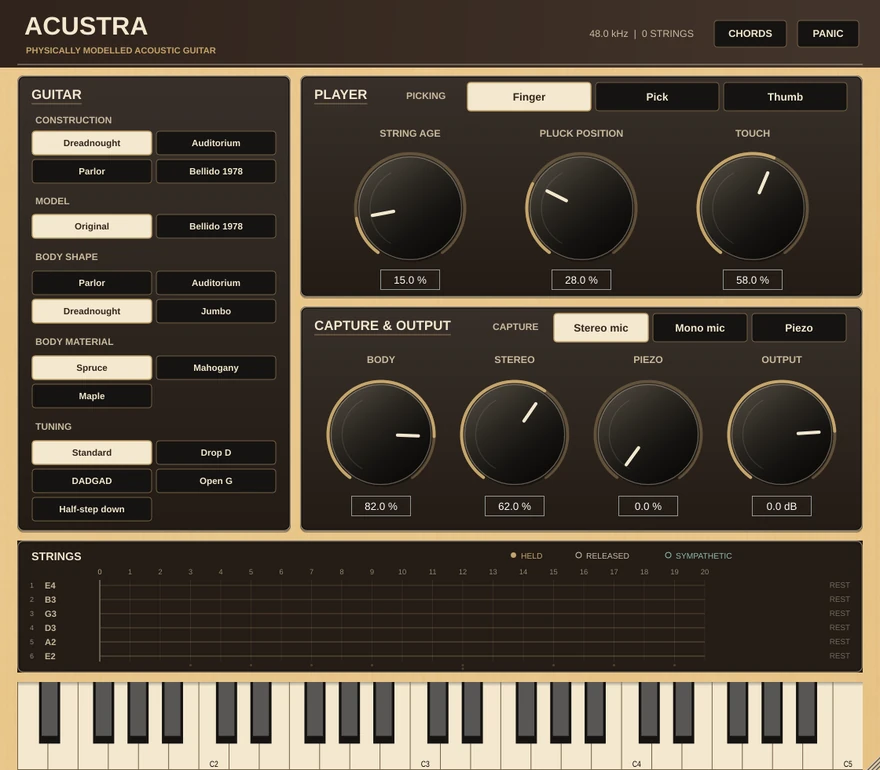
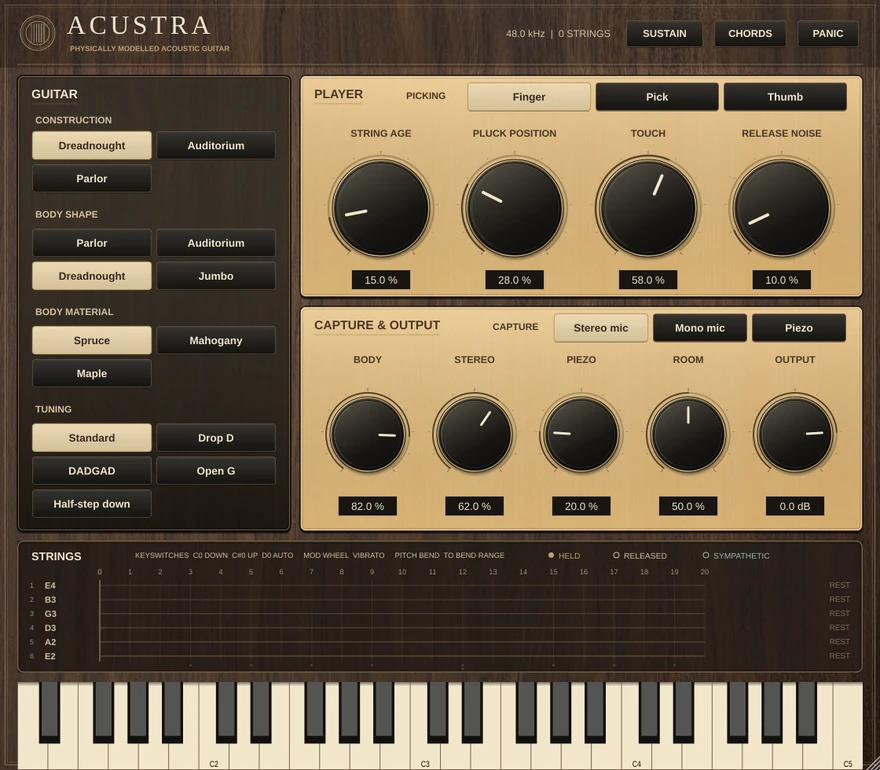
acustra: match the pages to the 1.3.2 source and its unreleased status
The Acustra page still sold the removed Bellido 1978 body and Model row,
natural harmonics above the twentieth fret, host-only Room and Release
Noise at 70 %, and a 1.0.0 Linux build as current. The source is 1.3.2
(8ea776e) and nothing has been released, so the page now says so.

- Re-encode the panel (1120x980) and card (880x770) WebPs from the
  committed editor capture at 8ea776e with Pillow, quality 90, method 6;
  cache keys move to 20261012 on the page, og:image and homepage card.
- Features: one body with three construction presets, strum direction
  timed by the host tempo, the C0/C#0/D0 keyswitches, the playable range
  as MIDI notes (the README's C0 and E2 use different octave names), the
  Sustain switch, Release Noise 10 %, Piezo Mix 20 % and Room 50 % on the
  panel. Body Material no longer claims to change damping.
- Add a MIDI implementation table and requirements from the source:
  macOS 11 universal (CMakeLists.txt), Windows 10 (pinned JUCE 8.0.14
  floor), formats per OS, rates to 384 kHz, 7-sample latency plus 30 ms
  with Gather Chords, the optional piezo output. All are stated as
  planned; the Linux minimum waits for the first release build.
- Add a Reason edition section: four tunings and two woods on its panel,
  no MPE, Gather Chords or CC65/CC84, CV inputs, Bend Range and
  oversampling at 49 samples; 1.2.8f1 is the last SDK-built candidate and
  1.2.9f1-1.2.11f1 are source only.
[…]

diff --git a/product/acustra/index.html b/product/acustra/index.html
@@ -11,7 +11,7 @@
   <meta property="og:description" content="Physical steel strings, responsive picking and a measurement-derived guitar body. Play fingerstyle, picked lines or voiced strums through microphones, a modelled piezo circuit and a small studio room.">
   <meta property="og:type" content="website">
   <meta property="og:url" content="https://protocodus.cz/product/acustra/">
-  <meta property="og:image" content="https://protocodus.cz/product/acustra/acustra-panel.webp?v=20261006">
+  <meta property="og:image" content="https://protocodus.cz/product/acustra/acustra-panel.webp?v=20261012">
   <link rel="canonical" href="https://protocodus.cz/product/acustra/">
   <link rel="icon" type="image/svg+xml" href="/assets/images/favicon.svg?v=20260911">
   <link rel="preload" href="/assets/fonts/space-grotesk-latin.woff2" as="font" type="font/woff2" crossorigin>
@@ -76,12 +76,12 @@
               <a href="mailto:protocodus@proton.me?subject=Acustra" class="btn btn-primary">Ask about Acustra <span aria-hidden="true">↗</span></a>
               <a href="#details" class="detail-link">Explore the features <span aria-hidden="true">↓</span></a>
             </div>
-            <p class="availability-note">In development. VST3 and standalone for macOS, Windows and Linux, with Audio Unit on macOS.</p>
+            <p class="availability-note">In development; no build is available yet. Planned for release as VST®3 and standalone for macOS, Windows and Linux, with Audio Unit on macOS.</p>
           </div>
         </div>
         <figure class="shot hero-shot">
-          <a class="screenshot-link" href="acustra-panel.webp?v=20261006" aria-label="View the Acustra interface screenshot at full size">
-            <img src="acustra-panel.webp?v=20261006" width="1120" height="980" fetchpriority="high" decoding="async" alt="Current Acustra editor with guitar construction and tuning switches, Finger/Pick/Thumb playing styles, microphone and piezo capture, Gather Chords, a six-string fretboard and a piano keyboard">
+          <a class="screenshot-link" href="acustra-panel.webp?v=20261012" aria-label="View the Acustra interface screenshot at full size">
+            <img src="acustra-panel.webp?v=20261012" width="1120" height="980" fetchpriority="high" decoding="async" alt="Acustra 1.3.2 editor: construction, body shape, body material and tuning switches; Finger, Pick and Thumb with String Age, Pluck Position, Touch and Release Noise knobs; Stereo mic, Mono mic and Piezo capture with Body, Stereo, Piezo, Room and Output knobs; Sustain, Chords and Panic buttons; a six-string fretboard with the keyswitch legend; and a piano keyboard">
             <span class="shot-caption">Instrument interface <span>View full size <span aria-hidden="true">↗</span></span></span>
           </a>
         </figure>
@@ -97,10 +97,10 @@
         </div>
         <ul class="features">
           <li><h3>Finger, pick or thumb</h3><p>Choose three distinct ways to play the strings. Move the pluck position, soften or firm up the touch, and use velocity to shape the attack and brightness. Repeated strokes vary within a bounded force range.</p></li>
-          <li><h3>Voiced chords and strums</h3><p>Grouped keyboard chords are voiced using six strings, fret position and a four-finger grip, then swept as alternating downstrokes and upstrokes. Gather Chords combines keys pressed within 30 ms into one strum, adding the same latency.</p></li>
-          <li><h3>Shape and material</h3><p>Explore Parlor, Auditorium, Dreadnought and Jumbo body shapes, with Spruce, Mahogany and Maple material directions. Start from a construction preset, or choose the measured Bellido 1978 classical body, also strung with steel.</p></li>
-          <li><h3>Five tunings and harmonics</h3><p>Play in Standard, Drop D, DADGAD, Open G or Half-step down. Retuning changes each string’s tension and playable range. Above the twenty-fret range, available natural harmonics extend the instrument with a lighter, ringing tone.</p></li>
-          <li><h3>Expression under your hands</h3><p>Use the modulation wheel for vibrato and CC2 for bridge-hand damping. The hand keeps a consistent decay rate through slides, bends and pressure changes. Use the pitch wheel or lower-zone MPE for individual string bends and pluck position. Explicit CC65/CC84 transitions connect notes on a ringing string, with brief fret friction; key-up velocity shapes damping and release noise.</p></li>
+          <li><h3>Voiced chords and strums</h3><p>Grouped keyboard chords are voiced using six strings, fret position and a four-finger grip, then strummed across them. A strum within a dotted eighth of the previous one at the host tempo is the hand’s return and alternates direction; after a longer gap the hand starts again with a downstroke. Keyswitches C0, C#0 and D0 latch downstrokes, upstrokes or that automatic rule. Gather Chords combines keys pressed within 30 ms into one strum, adding the same latency.</p></li>
+          <li><h3>Shape and material</h3><p>Explore Parlor, Auditorium, Dreadnought and Jumbo body shapes, with Spruce, Mahogany and Maple material directions. Start from the Dreadnought, Auditorium or Parlor construction preset, then adjust any construction control to make your own guitar.</p></li>
+          <li><h3>Five tunings</h3><p>Play in Standard, Drop D, DADGAD, Open G or Half-step down. Retuning changes each string’s tension and playable range. Acustra plays from the lowest open string to the twentieth fret of the highest, MIDI notes 40 to 84 in Standard, and ignores notes outside that range. The C0, C#0 and D0 keyswitches, notes 24 to 26, sit below it and never sound.</p></li>
+          <li><h3>Expression under your hands</h3><p>Use the modulation wheel for vibrato and CC2 for bridge-hand damping. The hand keeps a consistent decay rate through slides, bends and pressure changes. The pitch wheel slides the fretting hand; lower-zone MPE adds per-string bends, pluck position and pressure-scaled vibrato. The Sustain switch lets released notes ring on every channel, beside the CC64 pedal. Explicit CC65/CC84 transitions connect notes on a ringing string, with brief fret friction; key-up velocity shapes damping and release noise.</p></li>
           <li><h3>Microphones, piezo and room</h3><p>Choose stereo microphones, a mono microphone or an under-saddle piezo through its modelled preamp. Blend the piezo beneath the microphones or send it to a separate output. Room adds a small studio’s reflections to the microphones, leaving the piezo dry.</p></li>
         </ul>
       </div>
@@ -117,30 +117,73 @@
           <li><h3>Strings with stiffness and loss</h3><p>Each steel string carries travelling waves in two planes of vibration. Stiffness spreads its upper partials, frequency-dependent loss lets them fade at different rates, and the tension increase after a pluck adds a brief pitch glide. String Age increases the losses, especially in the wound bass strings.</p></li>
           <li><h3>The hand releasing the string</h3><p>The attack models contact width, pluck position and the string slipping around the picking edge. Harder strokes release faster and brighter; a pick, finger and thumb set different contact and release behaviours. Moving the hand changes the harmonics at their source.</p></li>
           <li><h3>A bridge that connects the strings</h3><p>A passive bridge model transfers energy between the strings and body, including motion that rocks the saddle. Ringing strings can respond sympathetically to new notes. The top also springs back when the picking hand lets go, adding weight from its low resonances to the attack.</p></li>
-          <li><h3>Measured resonances, adjustable construction</h3><p>Bridge and microphone responses start from guitar measurements. Body Shape changes the air and top resonances together; Material shifts their frequency, damping and radiation. The Bellido 1978 has its own measured bridge and body, giving you another resonant foundation to shape.</p></li>
+          <li><h3>Measured resonances, adjustable construction</h3><p>Bridge and microphone responses start from guitar measurements. Body Shape re-couples the measured body’s air and top resonances for four published body sizes. Body Material changes the top’s density and stiffness, moving those resonances, the radiation and the bridge loading together; the measured damping is retained.</p></li>
           <li><h3>A pickup and its electronics</h3><p>The piezo starts with force at the saddle, then models saddle loading, the piezo element, cable capacitance and a battery-powered preamp circuit, including its filters, protection diodes and op-amp limits. It gives you a separate direct capture to blend or process.</p></li>
-          <li><h3>Microphones in a small studio</h3><p>Measured radiation paths provide stereo and mono microphone views; the Original’s voicing is informed by real flat-top recordings. Room adds modelled early reflections and a diffuse decay around those microphones. Adjust Stereo Width for space while the separate piezo stays dry.</p></li>
+          <li><h3>Microphones in a small studio</h3><p>Measured radiation paths provide stereo and mono microphone views; their voicing is informed by real flat-top recordings. Room adds modelled early reflections and a diffuse decay around those microphones. Adjust Stereo Width for space while the separate piezo stays dry.</p></li>
         </ul>
       </div>
     </section>
 
-    <section class="band" id="workflow">
+    <section class="band" id="playing">
+      <div class="wrap">
+        <div class="head">
+          <span class="tag">Playing it</span>
+          <h2 class="title">What each MIDI message plays.</h2>
+          <p class="lede">Conventional MIDI is the default: all sixteen channels are independent. A lower MPE zone starts when channel 1 receives the MPE configuration message (RPN 6).</p>
+        </div>
+        <div class="release-table-scroll"><table class="release-table">
+          <caption>Acustra 1.3.2 MIDI implementation</caption>
+          <thead><tr><th scope="col">Message</th><th scope="col">What it plays</th></tr></thead>
+          <tbody>
+            <tr><th scope="row">Note On and Off</th><td>Plucks within the tuning’s range, from the lowest open string to the twentieth fret of the highest; other notes are ignored. Velocity shapes the attack and the strum’s pick speed. Key-up velocity shapes damping and release noise.</td></tr>
+            <tr><th scope="row">C0, C#0, D0 (notes 24–26)</th><td>Keyswitches on any channel: every strum a downstroke, every strum an upstroke, or the automatic rule. Each holds until the next keyswitch or Panic and never sounds.</td></tr>
+            <tr><th scope="row">Pitch bend</th><td>Slides the fretting hand. RPN 0 sets the range, 2 semitones by default and up to 96.</td></tr>
+            <tr><th scope="row">CC1 Modulation</th><td>Fretting-hand vibrato through string tension, across the instrument. Open strings stay unbent.</td></tr>
+            <tr><th scope="row">CC2 Breath</th><td>Bridge-hand damping: the picking hand’s heel resting by the saddle.</td></tr>
+            <tr><th scope="row">CC64 Sustain</th><td>Holds notes released on its channel until pedal-up. The panel’s Sustain switch does the same on every channel.</td></tr>
+            <tr><th scope="row">CC65 and CC84</th><td>A connected finger transition: switch CC65 on, send the held source pitch on CC84, then the destination Note On, up to an octave away.</td></tr>
+            <tr><th scope="row">MPE lower zone</th><td>Each member channel bends its own string by tension, 48 semitones by default. CC74 sets its pluck position; channel pressure scales its vibrato depth.</td></tr>
+            <tr><th scope="row">CC126 and CC127</th><td>Mono Mode On with a value of 6 on channel 1 gives channels 1–6 one string each; Poly Mode On returns to shared string allocation.</td></tr>
+            <tr><th scope="row">CC120, CC121, CC123</th><td>All Sound Off, Reset All Controllers and All Notes Off.</td></tr>
+          </tbody>
+        </table></div>
+      </div>
+    </section>
+
+    <section class="band band-well" id="workflow">
       <div class="wrap workflow-layout">
         <div>
           <span class="tag">In your setup</span>
           <h2 class="title">Choose the guitar. Find your touch.</h2>
-          <p class="lede">Start with Guitar, Model, Picking and Capture, then adjust the body, string age and playing controls. Keep the microphone sound, blend in the piezo, or process the two captures separately in your DAW. Your host’s parameter controls expose Room and Release Noise; new instances start with 50% room and 70% release noise. Save the complete setup with your project or a host preset.</p>
+          <p class="lede">Start with Guitar, Picking and Capture, then adjust the body, string age and playing controls. Release Noise and Room sit on the panel with the other sound controls; a new instance starts with Release Noise at 10%, Piezo Mix at 20% and Room at 50%. Keep the microphone sound, blend in the piezo, or process the two captures separately in your DAW. Save the complete setup with your project or a host preset.</p>
         </div>
         <aside class="compatibility" aria-label="Platforms and availability">
           <h3>Formats &amp; availability</h3>
           <dl class="platforms">
+            <div><dt>Status</dt><dd>In development · 1.3.2 source, 12 October 2026<br>No build is available yet<br><a href="/product/releases/#acustra" class="text-link">Version &amp; release notes</a></dd></div>
             <div><dt>macOS 11+</dt><dd>Apple silicon &amp; Intel<br>VST3, Audio Unit, standalone</dd></div>
-            <div><dt>Windows x64</dt><dd>VST3, standalone</dd></div>
-            <div><dt>Linux x64</dt><dd>VST3, standalone</dd></div>
-            <div><dt>Status</dt><dd>1.0.0 · Linux development build, 6 October 2026<br><a href="/product/releases/#acustra" class="text-link">Version &amp; release notes</a></dd></div>
-            <div><dt>Reason edition</dt><dd>A thin adapter over the same guitar model<br>Latest source awaiting an SDK build and Reason validation</dd></div>
+            <div><dt>Windows 10+</dt><dd>x64<br>VST3, standalone</dd></div>
+            <div><dt>Linux x64</dt><dd>VST3, standalone<br>Minimum distribution to be confirmed with the first release build</dd></div>
+            <div><dt>Audio</dt><dd>Sample rates up to 384 kHz<br>Stereo main output and an optional mono piezo output<br>7 samples of latency; Gather Chords adds 30 ms</dd></div>
+            <div><dt>Reason edition</dt><dd>A thin adapter over the same guitar model<br><a href="#rack" class="text-link">Differences &amp; status</a></dd></div>
           </dl>
+          <p class="availability-note">These formats and platforms are planned for release. VST is a registered trademark of Steinberg Media Technologies GmbH.</p>
         </aside>
+      </div>
+    </section>
+
+    <section class="band" id="rack">
+      <div class="wrap">
+        <div class="head">
+          <span class="tag">Reason edition</span>
+          <h2 class="title">The same guitar in the rack.</h2>
+          <p class="lede">The Acustra Rack Extension plays the same engine and playing rules through a thin Reason adapter. It is planned for Reason 14 or later and is not available yet. Its 1.2.11f1 source carries the 1.3.2 instrument; 1.2.8f1 is the last candidate built with the Jukebox SDK and created in Reason Recon, and 1.2.9f1 to 1.2.11f1 await an SDK build and Reason validation.</p>
+        </div>
+        <ul class="features">
+          <li><h3>Four tunings, two woods</h3><p>The panel offers Standard, Drop D, DADGAD and Open G, with Spruce and Mahogany. Songs that stored Maple or Half-step down still load them.</p></li>
+          <li><h3>No MIDI channels</h3><p>Reason sends no MIDI channels, MPE or release velocity, so the rack edition has no MPE, string-per-channel mode, CC65/CC84 transitions, or per-channel bend and sustain. Gather Chords is absent because a Rack Extension declares its latency once.</p></li>
+          <li><h3>Added for Reason</h3><p>Monophonic Note and Gate CV inputs, a Bridge Hand knob working with CC2, a Bend Range knob from 1 to 12 semitones, and 1×, 2× or 4× oversampling on the rear panel, at a fixed 49-sample latency that Reason compensates.</p></li>
+        </ul>
       </div>
     </section>
 

diff --git a/product/releases/index.html b/product/releases/index.html
@@ -61,7 +61,7 @@
     <section class="band" id="top"><div class="wrap">
       <span class="tag">Development releases · 6 October 2026</span>
       <h1 class="hero-title">The latest instrument builds.</h1>
-      <p class="lede">The 6 October build covers Linux x64 VST3 and standalone editions of all five plug-in instruments, plus CLAP for YouKnow, Electry and Taikor. These are development packages. The macOS and Windows refreshes are pending; the Rack changes are awaiting SDK builds and validation in Reason.</p>
+      <p class="lede">The 6 October build covers Linux x64 VST®3 and standalone editions of all five plug-in instruments, plus CLAP for YouKnow, Electry and Taikor. These are development packages. The macOS and Windows refreshes are pending; the Rack changes are awaiting SDK builds and validation in Reason.</p>
       <div class="release-table-scroll"><table class="release-table">
         <caption>Linux x64 development builds, 6 October 2026</caption>
         <thead><tr><th scope="col">Instrument</th><th scope="col">Version</th><th scope="col">Formats</th><th scope="col">Source</th></tr></thead>
@@ -73,26 +73,25 @@
           <tr><th scope="row"><a href="/product/taikor/">Taikor</a></th><td>1.0.0</td><td>VST3, CLAP, standalone</td><td><a href="https://github.com/protocodus/virtual-instrument-taikor/tree/d25128e">d25128e</a></td></tr>
         </tbody>
       </table></div>
-      <p class="availability-note">Acustra remains a review build: its existing chord-onset regression is unresolved. Store downloads follow their own release cycle; this record does not announce a new macOS, Windows or Reason Shop package.</p>
+      <p class="availability-note">The Acustra 1.0.0 package was a review build with a known chord-onset processor assertion. Acustra’s source has since reached 1.3.2, which has no release package yet. Store downloads follow their own release cycle; this record does not announce a new macOS, Windows or Reason Shop package. VST is a registered trademark of Steinberg Media Technologies GmbH.</p>
     </div></section>
     <section class="band band-well"><div class="wrap">
       <div class="head"><span class="tag">What changed</span><h2 class="title">Sound and playing.</h2></div>
       <ul class="features">
         <li id="youknow"><h3>YouKnow 1.2.0</h3><p>The current circuit profile brings interacting waveform-mixer loading, nominal original-module filter tuning, temperature-dependent amplifier control and revised chorus motion and transfer. The first five changes were selected by ear; unmeasured module and chorus coordinates remain named estimates.</p><p>New instances start in six-voice Original timing. Saved Direct sessions retain Direct. The output amplifier’s antialiasing raises latency to 120 samples below 176.4 kHz and retains 41 at higher rates. Main NOISE keeps more upper-frequency energy at lower quality settings.</p><a class="text-link" href="https://github.com/protocodus/virtual-instrument-youknow/blob/73a8e62070983bd5353fa664fd02ae097486453a/README.md#release-history">Full YouKnow release history <span aria-hidden="true">↗</span></a></li>
-        <li id="acustra"><h3>Acustra 1.0.0</h3><p>Bridge-hand pressure keeps a consistent decay rate during slides, bends and pressure changes. The correction preserves unmuted renders, stored controls and the existing guitar models. The Reason adapter shares the same corrected engine.</p><a class="text-link" href="https://github.com/protocodus/virtual-instrument-acustra/blob/c321d7d7d900fa8fb05f498864072b84767ab8d2/README.md#release-history">Full Acustra release history <span aria-hidden="true">↗</span></a></li>
+        <li id="acustra"><h3>Acustra 1.3.2 · source only</h3><p>The source at <a class="text-link" href="https://github.com/protocodus/virtual-instrument-acustra/tree/8ea776e7d2b1913f51cc7d5be09bf06fca5b9b48">8ea776e7</a>, 12 October 2026, follows the 1.0.0 review build above. Acustra now plays one guitar body: the Bellido 1978 model is removed, and a session that chose it plays the Original. The panel adds the Sustain switch and the Release Noise and Room knobs; a new instance starts with Release Noise at 10% and Piezo Mix at 20%. Strum direction follows the host tempo, and keyswitches C0, C#0 and D0 latch downstrokes, upstrokes or the automatic rule. Only the tuning’s range sounds, from the lowest open string to the twentieth fret of the highest; pitches above it no longer play natural harmonics.</p><p>Measured dips at each body’s air mode and strongest mid-band mode change the microphone sound; nobody has listened to the 1.3.1 and 1.3.2 dips yet. Fixes from two MIDI audits cover Gather Chords, channel-mode messages, bypass and host reset. No 1.3.2 package has been built for release.</p><a class="text-link" href="https://github.com/protocodus/virtual-instrument-acustra/blob/8ea776e7d2b1913f51cc7d5be09bf06fca5b9b48/README.md#release-history">Full Acustra release history <span aria-hidden="true">↗</span></a></li>
         <li id="electry"><h3>Electry 1.2.0</h3><p>A fresh build of the current eight-string guitar, amps and effects. This build adds no sound or control changes.</p><a class="text-link" href="https://github.com/protocodus/virtual-instrument-electry#release-history">Electry release history <span aria-hidden="true">↗</span></a></li>
         <li id="septum"><h3>Septum 0.9.0</h3><p>A fresh build of the current two-tone synthesizer, with its updated interface spacing. Ten voices, Single/Dual/Split modes and the seven-saw oscillator remain available.</p><a class="text-link" href="https://github.com/protocodus/virtual-instrument-septum">Septum source and build notes <span aria-hidden="true">↗</span></a></li>
         <li id="taikor"><h3>Taikor 1.0.0</h3><p>A fresh build of the current four-drum ensemble, including front and rear heads, shell and air interactions, performer variation and room convolution. This build adds no sound or control changes.</p><a class="text-link" href="https://github.com/protocodus/virtual-instrument-taikor#release-history">Taikor release history <span aria-hidden="true">↗</span></a></li>
       </ul>
     </div></section>
     <section class="band" id="rack"><div class="wrap">
-      <div class="head"><span class="tag">Reason Rack Extensions · Unreleased source</span><h2 class="title">Shared instruments in the rack.</h2><p class="lede">Acustra and YouKnow are thin Reason adapters over their canonical instruments. Maremba owns its full instrument here. All three universal build attempts stopped because the licensed Jukebox SDK is unavailable; the following changes have no new Rack binary or Reason validation yet.</p></div>
+      <div class="head"><span class="tag">Reason Rack Extensions · Unreleased source</span><h2 class="title">Shared instruments in the rack.</h2><p class="lede">Acustra and YouKnow are thin Reason adapters over their canonical instruments. Maremba owns its full instrument here. On 6 October all three universal build attempts stopped because the licensed Jukebox SDK was unavailable, and none of the following changes had a new Rack binary or Reason validation. Acustra’s entry is current to 12 October.</p></div>
       <ul class="features">
         <li><h3>YouKnow · after 1.2.0f1</h3><p>The adapter now compiles the current canonical DSP directly and selects its active circuit profile. Chart/direct MIDI and CV timing, the 1–16-voice control and the Rack’s output calibration remain. Latency follows the current 120/41-sample rule. Twenty-six factory headroom pads are lowered by 0.22–2.00 dB; musical controls and Init are unchanged.</p></li>
-        <li><h3>Acustra · after 1.0.0f8</h3><p>The canonical source pin carries the slide and bend damping correction. Reason properties, MIDI/CV routing and the Rack’s dry-room configuration remain in the adapter.</p></li>
+        <li><h3>Acustra · 1.2.11f1 source</h3><p>1.2.8f1 is the last candidate built with the Jukebox SDK and created in Reason Recon. The 1.2.9f1 to 1.2.11f1 source adds the Sustain switch and a Room knob, starts Body at 82% and pins the canonical 1.3.2 instrument with its strum keyswitches. It has not been built with the SDK or tested in Reason yet.</p></li>
         <li><h3>Maremba · after 1.4.0f6</h3><p>The Kalimba’s box receives signed bridge forces from its yielding tine modes. Partials near bridge nodes now transmit less force to the board. The established fundamental level, all bar models and stored patch controls are preserved.</p></li>
       </ul>
-      <a class="text-link resource-link" href="https://github.com/protocodus/reason-rack-extensions/pull/24">Rack source and validation record <span aria-hidden="true">↗</span></a>
     </div></section>
   </main>
 

diff --git a/index.html b/index.html
@@ -82,7 +82,7 @@
 
           <p class="hero-sub enter">
             An independent software studio in Prague. Engineering for startups,
-            VST instruments and sound processing for musicians and producers.
+            VST® instruments and sound processing for musicians and producers.
           </p>
 
           <div class="hero-actions enter">
@@ -162,8 +162,8 @@
 
           <a class="product-card p-acustra" href="/product/acustra/">
             <div class="product-shot">
-              <img src="product/acustra/acustra-card.webp?v=20261006"
-                srcset="product/acustra/acustra-card.webp?v=20261006 880w, product/acustra/acustra-panel.webp?v=20261006 1120w"
+              <img src="product/acustra/acustra-card.webp?v=20261012"
+                srcset="product/acustra/acustra-card.webp?v=20261012 880w, product/acustra/acustra-panel.webp?v=20261012 1120w"
                 sizes="(max-width: 760px) calc(100vw - 64px), (max-width: 1280px) 53vw, 640px"
                 width="880" height="770" loading="lazy" decoding="async"
                 alt="Acustra acoustic guitar instrument interface">
@@ -245,6 +245,7 @@
             </div>
           </div>
         </div>
+        <p class="availability-note">VST is a registered trademark of Steinberg Media Technologies GmbH.</p>
       </div>
     </section>
 

diff --git a/product/SCREENSHOTS.md b/product/SCREENSHOTS.md
@@ -1,8 +1,8 @@
 # Product media and claim sources
 
-Reviewed on 6 October 2026. The existing instrument order is retained, with Septum added before Podcare. Product pages link the current development release record.
+Reviewed on 6 October 2026; Acustra's image, page and release entry refreshed on 12 October 2026. The existing instrument order is retained, with Septum added before Podcare. Product pages link the current development release record.
 
-Instrument images are authentic editor captures or assembled Rack Extension panels. Every WebP shows the complete interface, with its aspect ratio retained. YouKnow, Acustra and Septum editor images use `20261006`. Retained images and guides keep their previous cache keys; the shared stylesheet uses `20261006-instrument-releases`.
+Instrument images are authentic editor captures or assembled Rack Extension panels. Every WebP shows the complete interface, with its aspect ratio retained. YouKnow and Septum editor images use `20261006`; Acustra's uses `20261012`. Retained images and guides keep their previous cache keys; the shared stylesheet uses `20261006-instrument-releases`.
 
 ## Current media
 
@@ -10,7 +10,7 @@ Instrument images are authentic editor captures or assembled Rack Extension pane
 | --- | --- | --- | --- |
 | YouKnow plug-in | Fresh editor snapshot from [73a8e620](https://github.com/protocodus/virtual-instrument-youknow/tree/73a8e62070983bd5353fa664fd02ae097486453a), via `YOUKNOW_EDITOR_SNAPSHOT` | 1360 × 747 | 880 × 483 |
 | Electry | [Current editor capture](https://github.com/protocodus/virtual-instrument-electry/blob/6dacb95e00b63181eae3de94eb933dc52e945428/Docs/screenshots/electry-standalone.png) and implementation at 6dacb95e; the latest changes after the capture harden the processor without changing the editor | 1180 × 910 | 880 × 679 |
-| Acustra | Fresh editor snapshot from [c321d7d7](https://github.com/protocodus/virtual-instrument-acustra/tree/c321d7d7d900fa8fb05f498864072b84767ab8d2), via `ACUSTRA_EDITOR_SNAPSHOT`; includes the current six-string fretboard | 1120 × 980 | 880 × 770 |
+| Acustra | [Committed editor capture](https://github.com/protocodus/virtual-instrument-acustra/blob/8ea776e7d2b1913f51cc7d5be09bf06fca5b9b48/Docs/screenshots/acustra-standalone.png) at main 8ea776e7, version 1.3.2, 12 October 2026: last rendered in ed2a184 via `ACUSTRA_EDITOR_SNAPSHOT`; the editor and its defaults are unchanged since. Shows the Sustain switch, Release Noise and Room knobs, Piezo at 20% and the keyswitch legend | 1120 × 980 | 880 × 770 |
 | Taikor | [Current generated editor capture at 5483f0c6](https://github.com/protocodus/virtual-instrument-taikor/blob/5483f0c6bd8c3de712df949acdfe5112a0dc977e/Docs/screenshots/taikor-standalone.png), refreshed from implementation 16910078f94d | 1280 × 920 | 880 × 633 |
 | YouKnow Rack Extension | Authentic 1.2.0f1 front, back, thumbnail and manual from [packaged assets at 9381100b](https://github.com/protocodus/reason-rack-extensions/tree/9381100b867e3be142c40c3eb4830071c345f46d/dist), inspected at Rack source [efc0d78a](https://github.com/protocodus/reason-rack-extensions/tree/efc0d78aa0f87a5d15612640805d27e1d279dbd0) | 1600 × 1171; site panel 1400 × 1025 | YouKnow’s homepage uses the plug-in |
 | Maremba Rack Extension | Authentic 1.4.0f6 front, back and thumbnail from [current dist assets](https://github.com/protocodus/reason-rack-extensions/tree/efc0d78aa0f87a5d15612640805d27e1d279dbd0/dist); current HD composites verified against the distributed PNGs | 1600 × 1171; site panels 1400 × 1025 | 880 × 644 |
@@ -23,9 +23,7 @@ WebPs were encoded with Pillow and method 6: quality 90 for refreshed YouKnow, A
 
 ### Acustra snapshot
 
[1 lines of base64/hex data omitted]
-
-The harness rendered the current default editor and its size/state variants successfully. Its processor suite still reports the pre-existing strum-onset boundary assertion documented by the environment setup; this review build is not described as passing that suite.
[1 lines of base64/hex data omitted]
 
 ### Player guides
 
@@ -41,9 +39,11 @@ Descriptions lead with the audible consequences of the active models. The source
 | --- | --- |
 | YouKnow | [Detailed page evidence map](youknow/MODELLING.md), current `ActiveProductFidelityProfile` / `ProductHardwareRealismProfile`, oscillator, control-DAC, filter/VCA, chorus and output models. New instances use six-voice Original timing; saved Direct states keep Direct and can use up to 16 voices. Original-module filter coordinates, Mode-II timing and same-chip insertion gain are named estimates, not newly measured original-unit calibration. |
 | Electry | Current `README.md`, `Source/DSP/ElectryEngine.*` and `ElectryFx.*`: two-plane string vibration and losses, finite pick/finger contact, fret/bridge/hand state, magnetic pickup response, circuit-derived pedal and amp stages, cabinet voicing and effects. Amp families are original voices informed by circuits; the page does not claim exact named-amplifier replication. |
-| Acustra | Current `README.md`, accepted `Docs/decisions.md`, `Source/DSP/AcustraEngine.*`, processor and editor: steel strings, contact/release, passive measured bridge and body, voiced chords/connected transitions, microphone radiation, piezo circuit and studio room. Room and Release Noise are host parameters beyond the visible panel. The Bellido measured classical body is also steel-strung in this instrument; retired Nylon/Cedar and rejected model experiments are not marketed. |
+| Acustra | `README.md`, accepted `Docs/decisions.md`, `Source/DSP/AcustraEngine.*`, `AcustraPerformer.*`, processor and editor at 8ea776e7 (1.3.2): steel strings, contact/release, passive measured bridge and body, voiced chords, tempo-timed strum direction with the C0/C#0/D0 keyswitches, connected transitions, microphone radiation, piezo circuit and studio room. Release Noise (10%), Room (50%), Piezo Mix (20%) and the Sustain switch are on the panel. One guitar body plays since 2026-10-10: the removed Bellido 1978 model, retired Nylon/Cedar and rejected model experiments are not marketed. The playable range runs from the lowest open string to the twentieth fret of the highest; the natural harmonics above it were retired in 1.3.0. The README's note names put the keyswitches at C0 (MIDI 24) but the range at E2 (MIDI 40), two octave conventions, so the page gives the range as MIDI notes. Nobody has listened to the 1.3.1 and 1.3.2 dips, so the pages describe features rather than sound improvements. Requirements come from `CMakeLists.txt` (macOS 11, formats per OS), the pinned JUCE 8.0.14 deployment floor (Windows 10), `AcustraEngine.h` (rates to 384 kHz, 7-sample latency) and the README's MIDI and Outputs sections. No release build exists, so formats and platforms are stated as planned and the Linux minimum is left to the first release build. The Reason edition's differences and status come from the Rack wrapper's `README.md`, `motherboard_def.lua`, `Docs/SHOP_COPY.md` and its 1.2.8f1–1.2.11f1 validation records at Rack e611be3. |
 | Taikor | Current `Source/DSP` membrane, `BachiModel`, `CoupledCavity`, `ShellBoundary`, `TaikoEngine`, `EnsembleEngine` and `IRReverb`, with the physical-realism decision records. Shipping bachi are wooden across Hardness. Hits use no recorded drum samples; room convolution does use impulse responses. Front/rear heads, shell/air interactions and player variation are implemented. |
 | Maremba | Current DSP, player guide, physical-model/capture references and f5/f6 evidence. The subsequent Kalimba bridge correction supplies signed reactions from the yielding mount and remains unbuilt in the SDK. Seven tuning choices include equal temperament. Rolls apply to wooden instruments; the Kalimba wheel covers sound holes. Direct captures have their own calibration and omit main Volume and capture Level controls. |
+
+VST trademark: the Acustra page, the release page and the homepage write VST® at first use and carry Steinberg's attribution sentence, following §15 of `VST3_Usage_Guidelines.pdf` in the pinned JUCE 8.0.14 SDK. The guidelines also ask for the VST Compatible Logo on every page that names VST; it has not been placed yet, and the other product pages still need the same attribution.
 
 Existing Electry and YouKnow plug-in sales links are retained; storefront package parity is not inferred from repository state. Taikor uses a contact action because the previous site audit recorded no Gumroad listing. Acustra also uses contact, and Maremba’s primary action remains the player guide.
 
@@ -52,7 +52,10 @@ For later refreshes, inspect current upstream bytes and active code paths, prese
 ## 6 October build record
 
 [Development release notes](releases/index.html) record the five Linux versions,
-source revisions and unreleased Rack changes. Acustra retains its known chord-onset
-processor assertion. Rack universal builds stop at the missing licensed SDK.
+source revisions and unreleased Rack changes. The Acustra 1.0.0 review build carried
+a known chord-onset processor assertion; its entry now describes the 1.3.2 source,
+which has no release package. Rack universal builds stopped at the missing licensed
+SDK on 6 October; Acustra's Rack entry records 1.2.8f1 as its last SDK-built
+candidate and 1.2.11f1 as source only. The private Rack pull-request link is removed.
 Store downloads and archived Rack images/manuals are not inferred to contain the
 new source. Packaging checks and hashes are in `releases/2026-10-06.json`.
